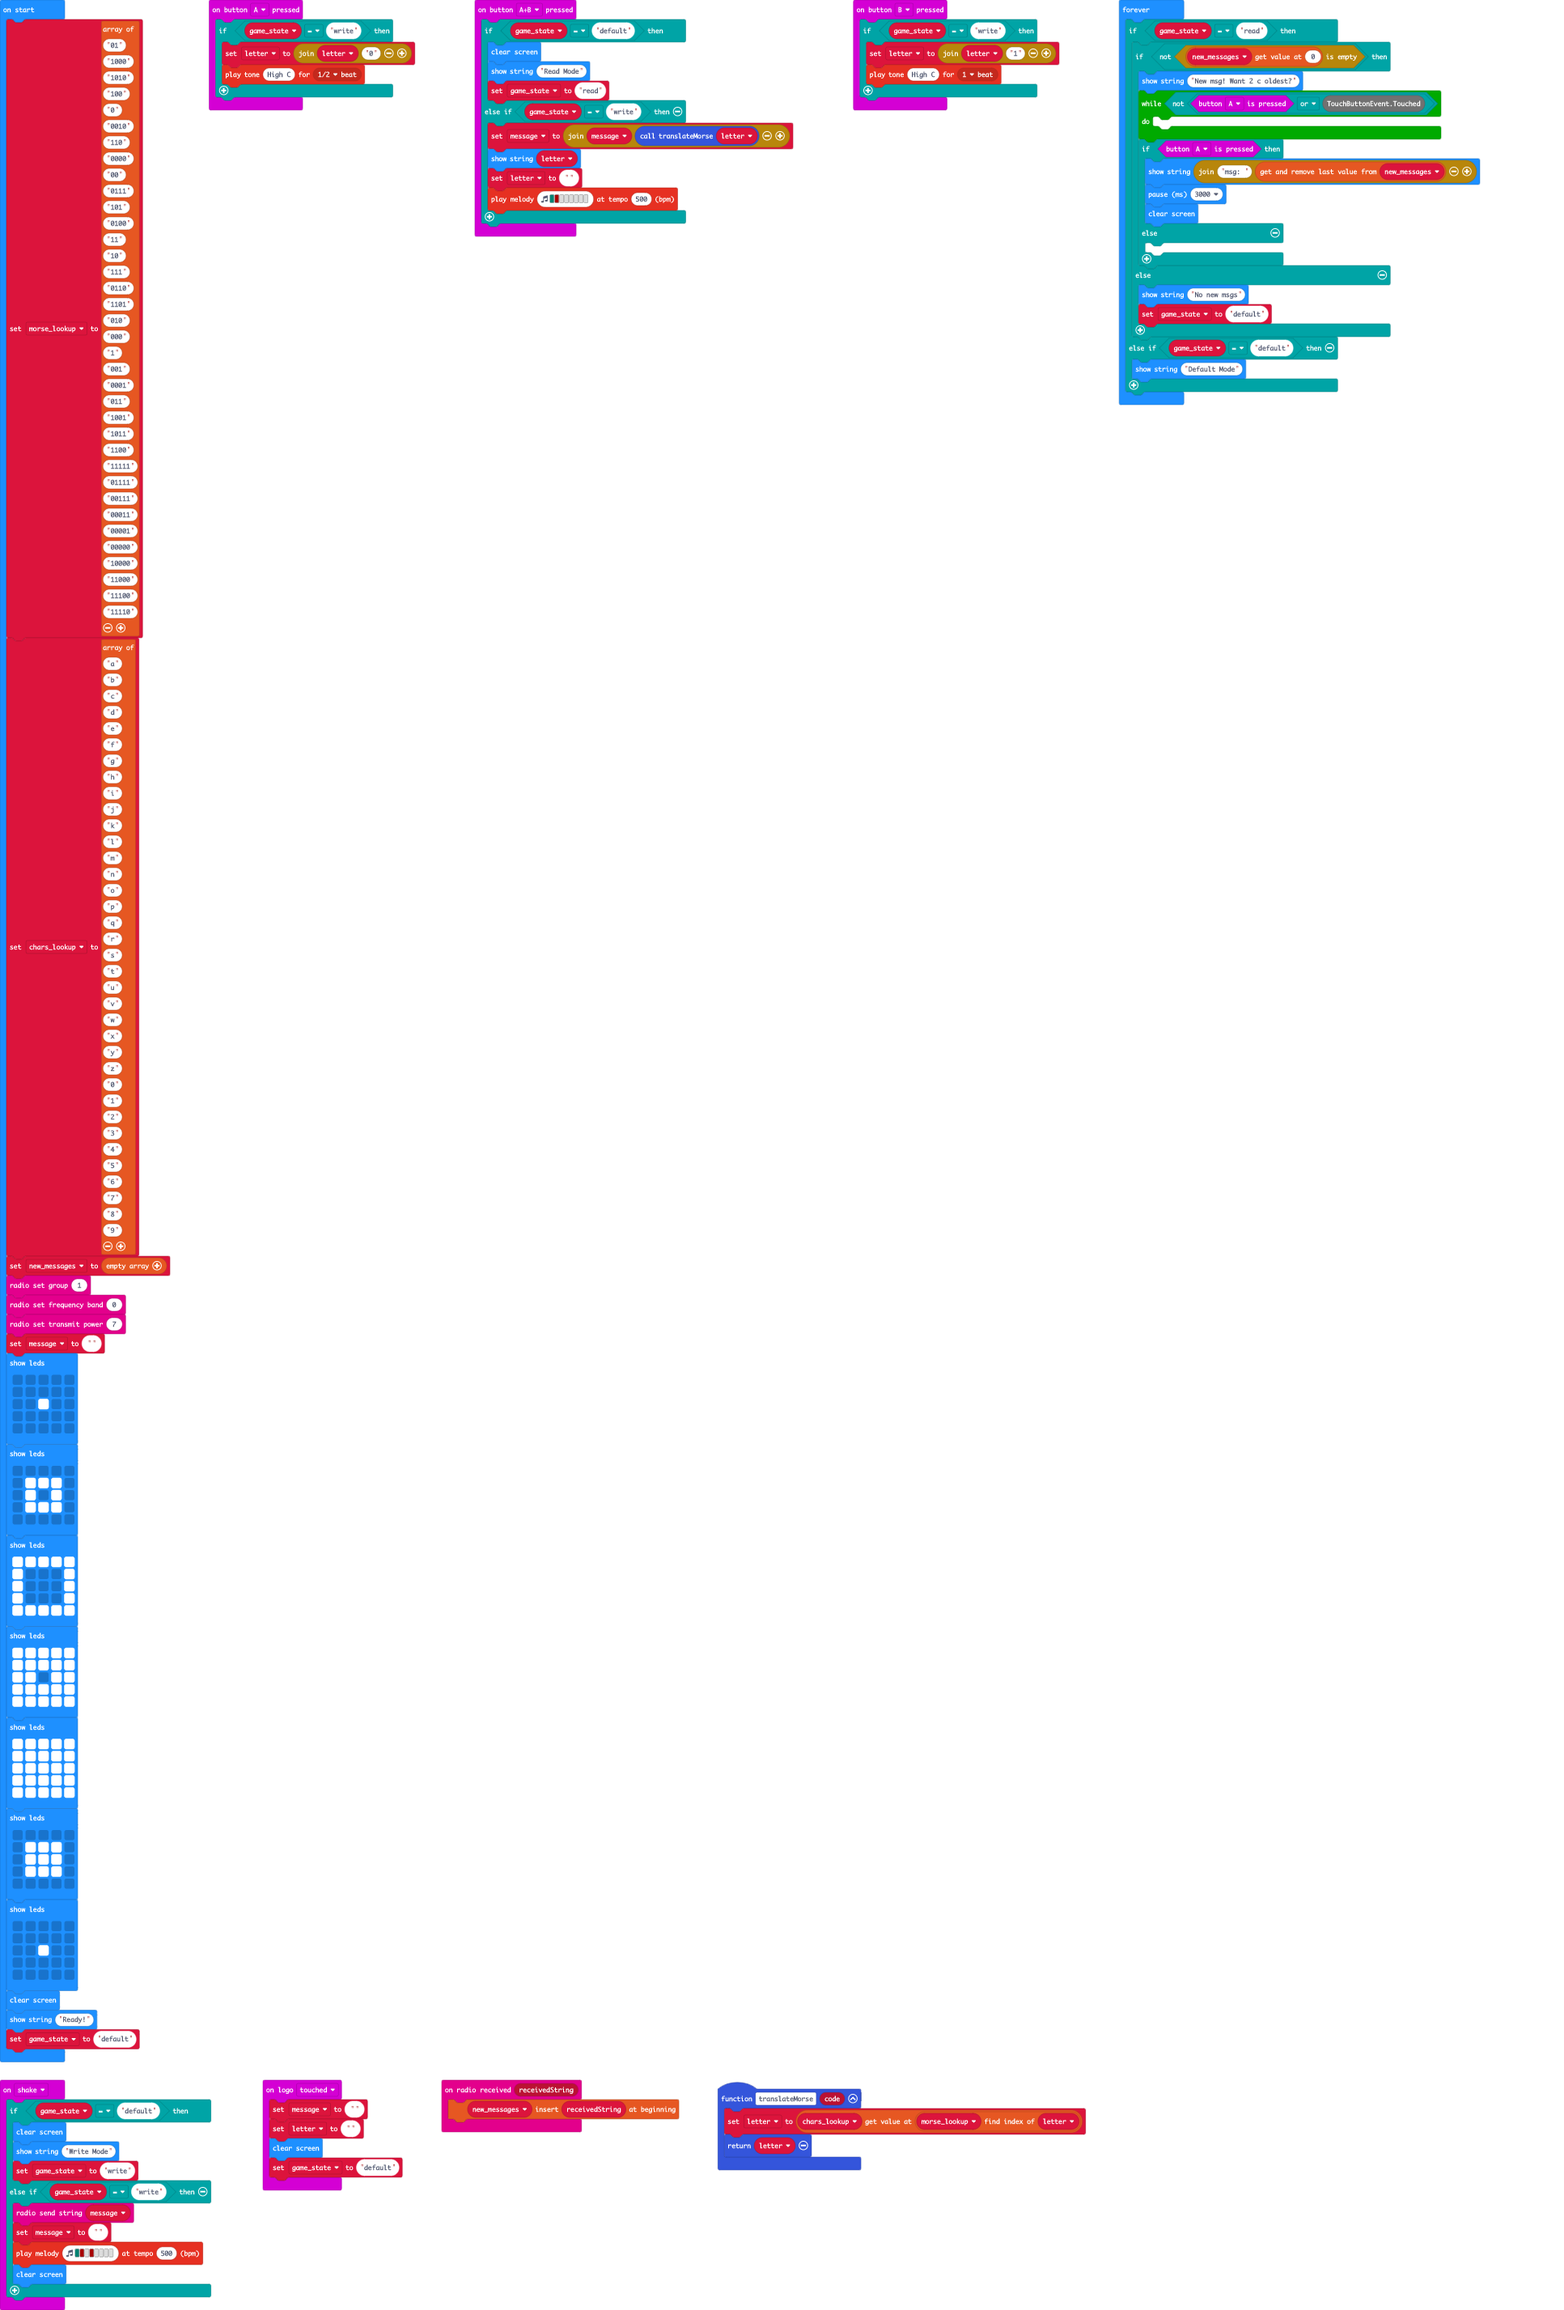
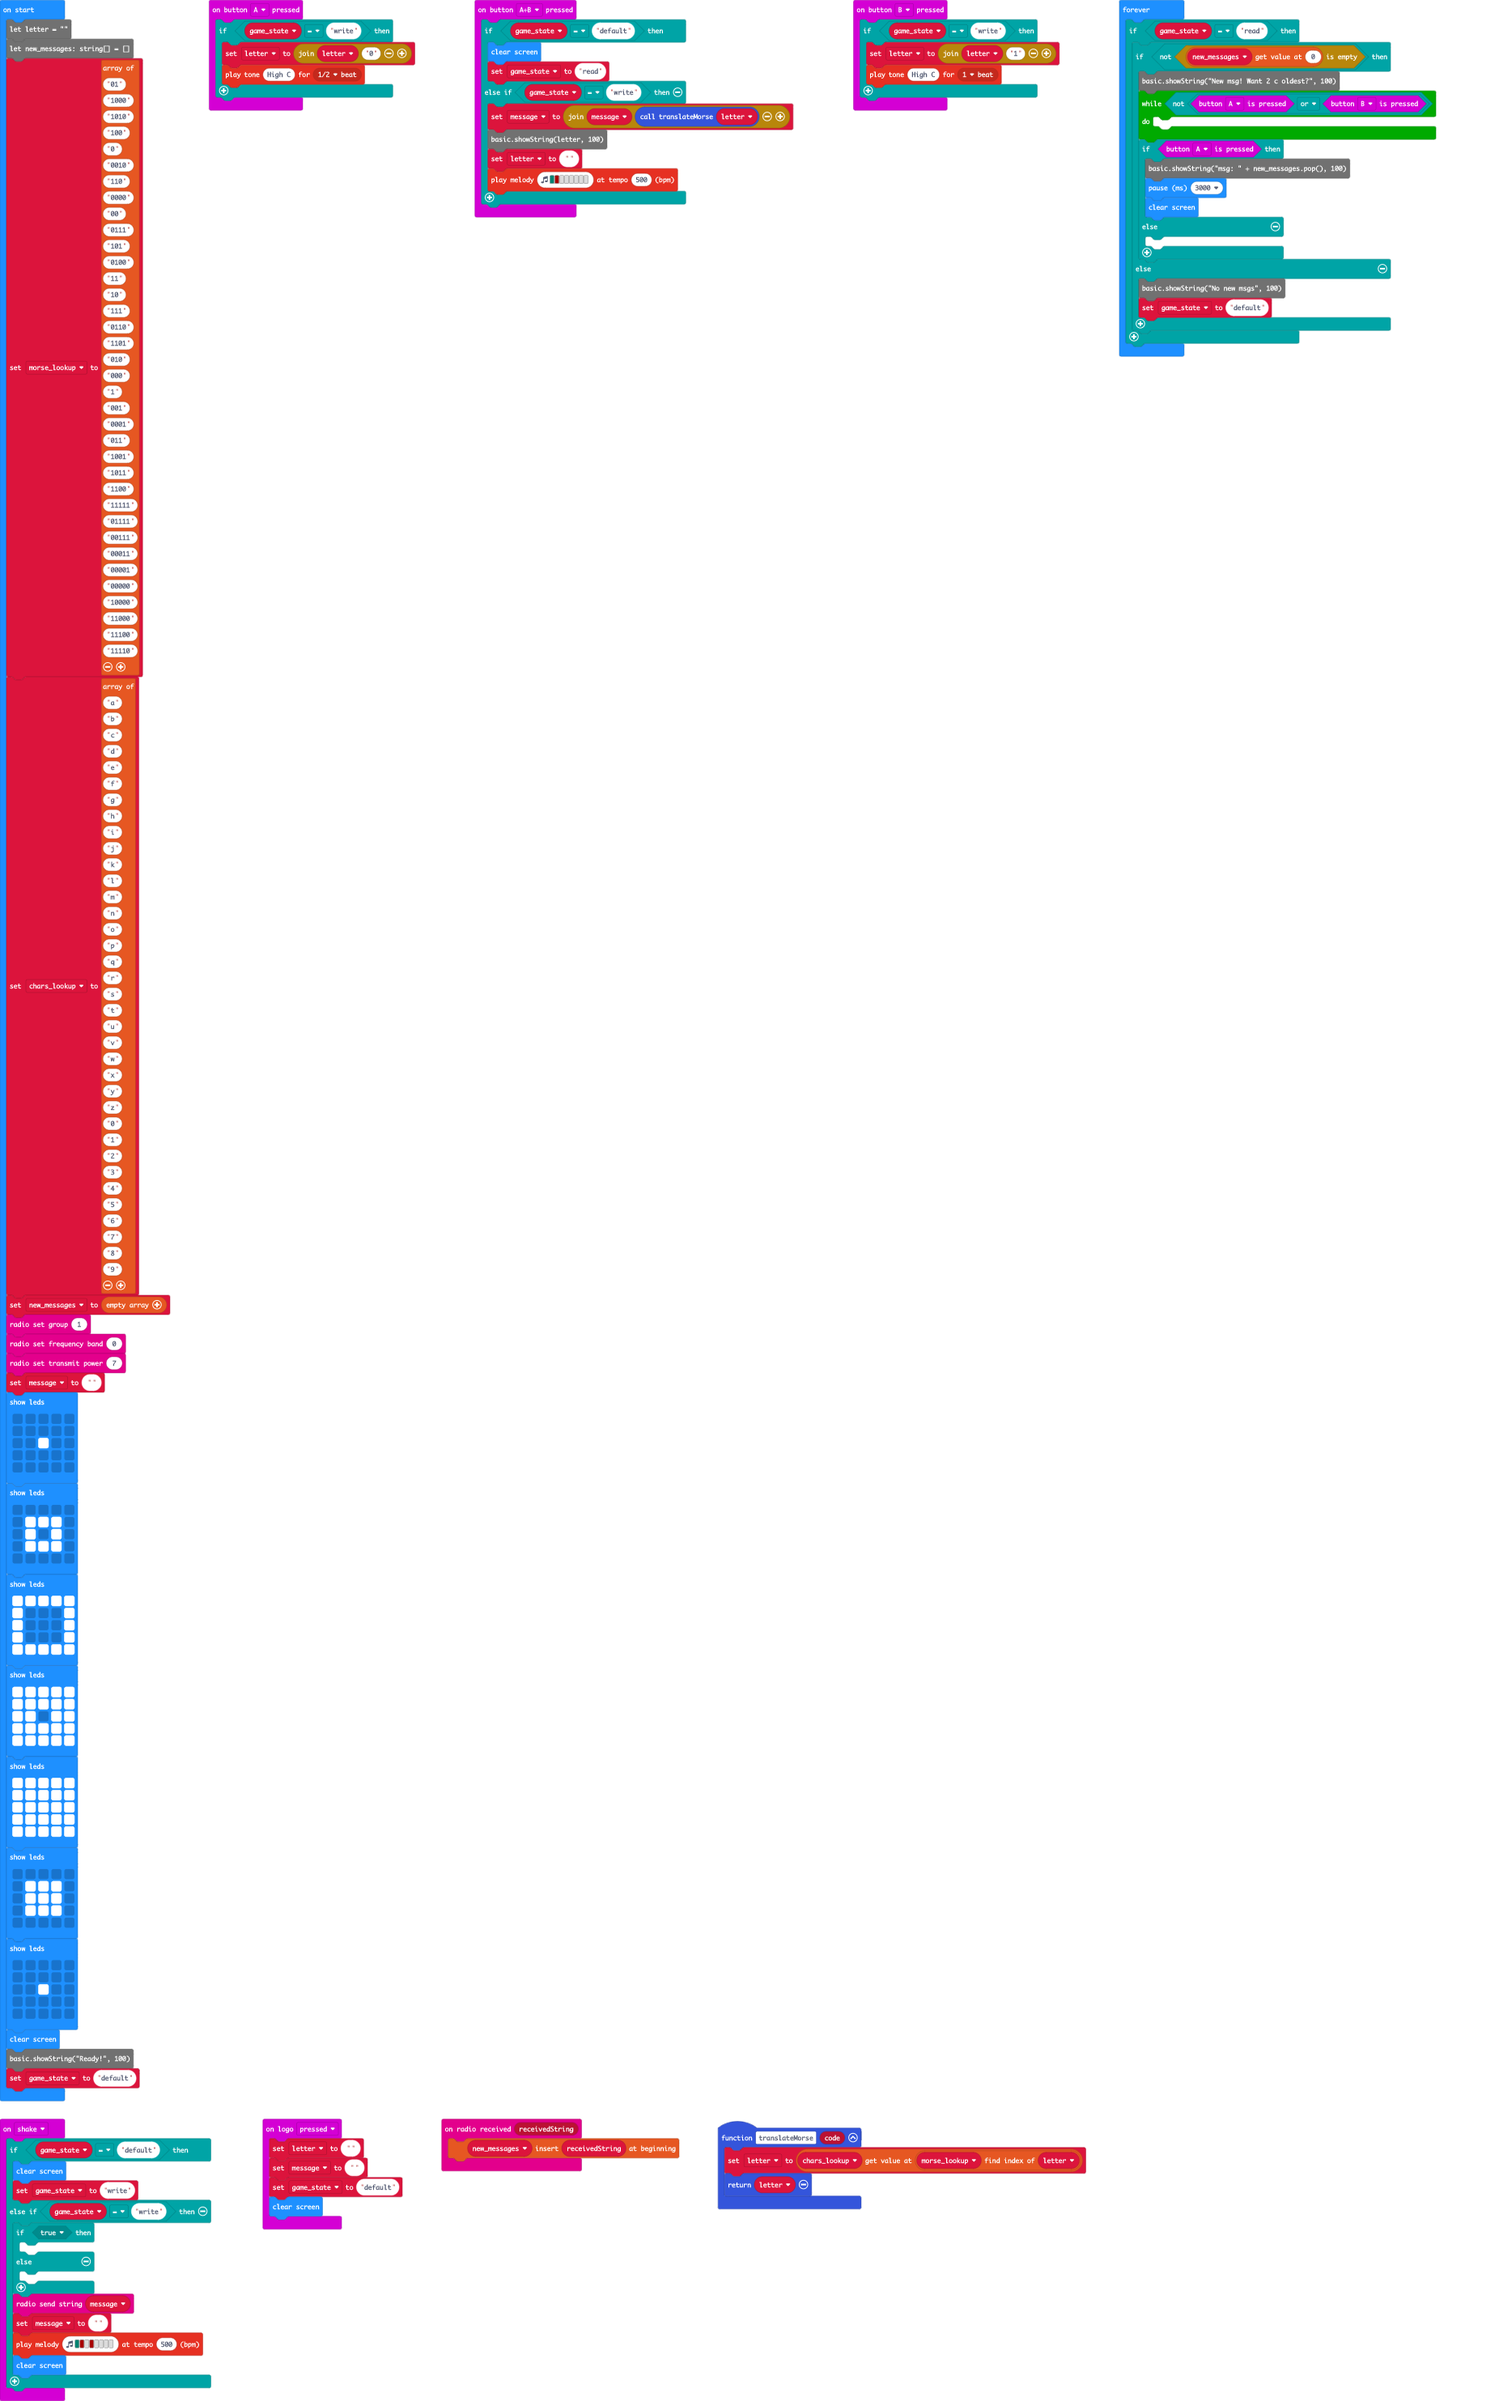
Reverted to previous, but kept speedy letters. Everything should be done now!

Changed region(s): [[0.0, 0.0, 0.9541, 1.0]]

diff --git a/main.ts b/main.ts
@@ -1,18 +1,17 @@
 input.onButtonPressed(Button.A, function () {
     if (game_state == "write") {
-        letter = letter + "0"
+        letter = "" + letter + "0"
         music.playTone(523, music.beat(BeatFraction.Half))
     }
 })
 input.onButtonPressed(Button.AB, function () {
     if (game_state == "default") {
         basic.clearScreen()
-        basic.showString("Read Mode", 100)
         game_state = "read"
     } else if (game_state == "write") {
-        message = message + translateMorse(letter)
+        message = "" + message + translateMorse(letter)
         basic.showString(letter, 100)
-        letter = ""
+letter = ""
         music.playMelody("F C5 - - - - - - ", 500)
     }
 })
@@ -21,17 +20,21 @@ radio.onReceivedString(function (receivedString) {
 })
 input.onButtonPressed(Button.B, function () {
     if (game_state == "write") {
-        letter = letter + "1"
+        letter = "" + letter + "1"
         music.playTone(523, music.beat(BeatFraction.Whole))
     }
 })
 input.onGesture(Gesture.Shake, function () {
     if (game_state == "default") {
         basic.clearScreen()
-        basic.showString("Write Mode", 100)
         game_state = "write"
     } else if (game_state == "write") {
-        radio.sendString(message)
+        if (true) {
+        	
+        } else {
+        	
+        }
+        radio.sendString("" + (message))
         message = ""
         music.playMelody("F C5 - C5 - - - - ", 500)
         basic.clearScreen()
@@ -41,18 +44,18 @@ function translateMorse (code: string) {
     letter = chars_lookup[morse_lookup.indexOf(letter)]
     return letter
 }
-input.onLogoEvent(TouchButtonEvent.Touched, function () {
-    message = ""
+input.onLogoEvent(TouchButtonEvent.Pressed, function () {
     letter = ""
-    basic.clearScreen()
+    message = ""
     game_state = "default"
+    basic.clearScreen()
 })
-let letter = ""
 let game_state = ""
 let message = ""
-let new_messages: string[] = []
 let chars_lookup: string[] = []
 let morse_lookup: string[] = []
+let letter = ""
+let new_messages: string[] = []
 morse_lookup = [
 "01",
 "1000",
@@ -189,22 +192,20 @@ game_state = "default"
 basic.forever(function () {
     if (game_state == "read") {
         if (!(new_messages[0].isEmpty())) {
-            basic.showString("New msg! Want 2 c oldest?")
-            while (!(input.buttonIsPressed(Button.A) || TouchButtonEvent.Touched)) {
+            basic.showString("New msg! Want 2 c oldest?", 100)
+while (!(input.buttonIsPressed(Button.A) || input.buttonIsPressed(Button.B))) {
             	
             }
             if (input.buttonIsPressed(Button.A)) {
                 basic.showString("msg: " + new_messages.pop(), 100)
-                basic.pause(3000)
+basic.pause(3000)
                 basic.clearScreen()
             } else {
             	
             }
         } else {
             basic.showString("No new msgs", 100)
-            game_state = "default"
+game_state = "default"
         }
-    } else if (game_state == "default") {
-        basic.showString("Default Mode", 100)
     }
 })
